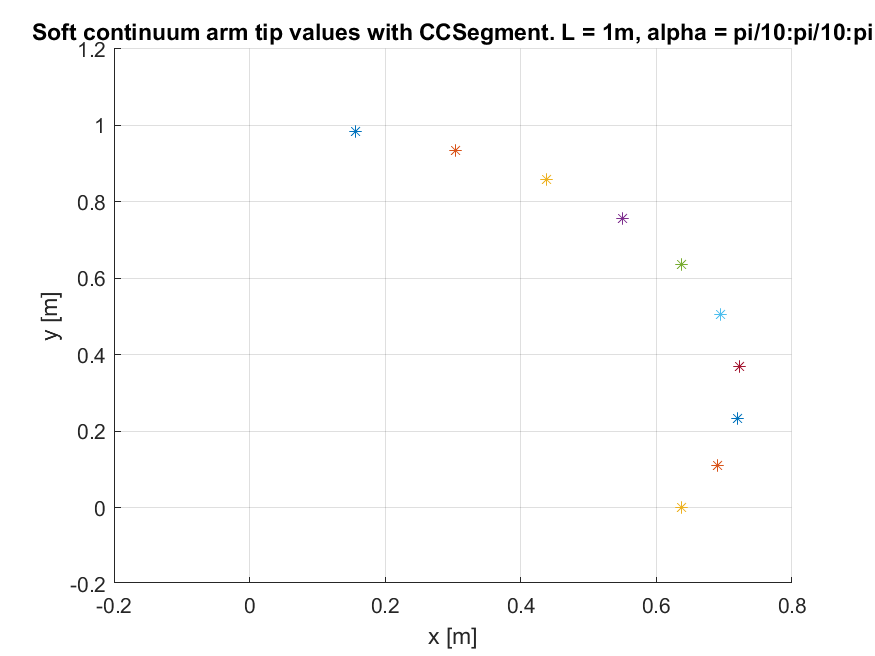
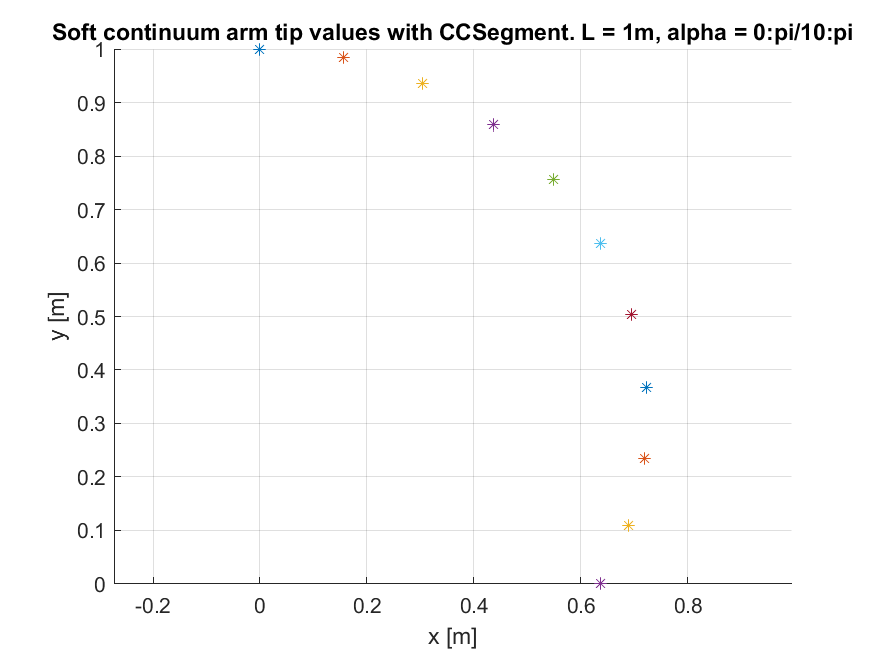
ward kinematics with sma lengths

diff --git a/Codes/Constant_curvature_plots.m b/Codes/Constant_curvature_plots.m
@@ -6,7 +6,7 @@ clc
 length = 1; % 1m
 figure; hold on
 
-for alpha = pi/10:pi/10:pi
+for alpha = 0:pi/10:pi
     temp_points = [];
     for s = 0:0.002:1
         T_1 = homogeneousTransformMatrix(s, alpha, length);
@@ -19,14 +19,15 @@ end
 
 % Plot parameters
 grid on
-xmax = 0.8; xmin = -0.2; ymax = 1.2; ymin = -0.2;
-xlim([xmin xmax])
-ylim([ymin ymax])
-set(gca, 'xtick', xmin:0.2:xmax)
-set(gca, 'ytick', ymin:0.2:ymax)
+% xmax = 1.2; xmin = -0.2; ymax = 1.2; ymin = -0.2;
+% xlim([xmin xmax])
+% ylim([ymin ymax])
+% set(gca, 'xtick', xmin:0.2:xmax)
+% set(gca, 'ytick', ymin:0.2:ymax)
+axis equal
 xlabel("x [m]")
 ylabel("y [m]")
-title("Soft continuum arm with constant curvature. L = 1m, alpha = pi/10:pi/10:pi")
+title("Soft continuum arm with constant curvature. L = 1m, alpha = 0:pi/10:pi")
 hold off
 
 % Save plot
@@ -40,7 +41,7 @@ filename = '../Images/CCmodel.gif';
 axis tight manual
 grid on
 
-for alpha = pi/10:pi/10:pi
+for alpha = 0:pi/10:pi
     temp_points = [];
     for s = 0:0.002:1
         T_1 = homogeneousTransformMatrix(s, alpha, length);
@@ -53,12 +54,13 @@ for alpha = pi/10:pi/10:pi
     plot(temp_points(:, 1), temp_points(:, 2), '.');
     xlabel("x [m]")
     ylabel("y [m]")
-    title("Soft continuum arm with constant curvature. L = 1m, alpha = pi/10:pi/10:pi")
-    xmax = 0.8; xmin = -0.2; ymax = 1.2; ymin = -0.2;
-    xlim([xmin xmax])
-    ylim([ymin ymax])
-    set(gca, 'xtick', xmin:0.2:xmax)
-    set(gca, 'ytick', ymin:0.2:ymax)
+    title("Soft continuum arm with constant curvature. L = 1m, alpha = 0:pi/10:pi")
+%     xmax = 1.2; xmin = -0.2; ymax = 1.2; ymin = -0.2;
+%     xlim([xmin xmax])
+%     ylim([ymin ymax])
+%     set(gca, 'xtick', xmin:0.2:xmax)
+%     set(gca, 'ytick', ymin:0.2:ymax)
+    axis equal
     grid on
     drawnow
     
@@ -79,7 +81,7 @@ end
 length = 1; % 1m
 figure; hold on
 
-for alpha = pi/10:pi/10:pi
+for alpha = 0:pi/10:pi
     T_3 = CCSegment(alpha, length);
     px = T_3(1, 4);
     py = T_3(2, 4);
@@ -88,14 +90,15 @@ end
 
 % Plot parameters
 grid on
-xmax = 0.8; xmin = -0.2; ymax = 1.2; ymin = -0.2;
-xlim([xmin xmax])
-ylim([ymin ymax])
-set(gca, 'xtick', xmin:0.2:xmax)
-set(gca, 'ytick', ymin:0.2:ymax)
+% xmax = 1.2; xmin = -0.2; ymax = 1.2; ymin = -0.2;
+% xlim([xmin xmax])
+% ylim([ymin ymax])
+% set(gca, 'xtick', xmin:0.2:xmax)
+% set(gca, 'ytick', ymin:0.2:ymax)
+axis equal
 xlabel("x [m]")
 ylabel("y [m]")
-title("Soft continuum arm tip values with CCSegment. L = 1m, alpha = pi/10:pi/10:pi")
+title("Soft continuum arm tip values with CCSegment. L = 1m, alpha = 0:pi/10:pi")
 hold off
 
 % Save plot
@@ -103,10 +106,10 @@ saveas(gcf, '../Images/CCSegmentTest.png')
 
 %% Plot tip values using PCCSection
 length = 1; % 1m
-num_segments = 2;
+num_segments = 4;
 figure; hold on
 
-for alpha = pi/10:pi/10:pi
+for alpha = 0:pi/10:pi
     T_4 = PCCSection(alpha, length, num_segments);
     px = T_4(1, 4);
     py = T_4(2, 4);
@@ -115,14 +118,15 @@ end
 
 % Plot parameters
 grid on
-xmax = 0.8; xmin = -0.2; ymax = 1.2; ymin = -0.2;
-xlim([xmin xmax])
-ylim([ymin ymax])
-set(gca, 'xtick', xmin:0.2:xmax)
-set(gca, 'ytick', ymin:0.2:ymax)
+% xmax = 1.2; xmin = -0.2; ymax = 1.2; ymin = -0.2;
+% xlim([xmin xmax])
+% ylim([ymin ymax])
+% set(gca, 'xtick', xmin:0.2:xmax)
+% set(gca, 'ytick', ymin:0.2:ymax)
+axis equal
 xlabel("x [m]")
 ylabel("y [m]")
-title("Soft continuum arm tip values with PCCSection. L = 1m, alpha = pi/10:pi/10:pi")
+title("Soft continuum arm tip values with PCCSection. L = 1m, alpha = 0:pi/10:pi")
 hold off
 
 % Save plot

diff --git a/Codes/CCSegment.m b/Codes/CCSegment.m
@@ -1,8 +1,27 @@
-function T = CCSegment(segment_angle, segment_length)
+% Constant curvature for one segment. beta is the segment angle and l is
+% the segment length.
 
-T = [  cos(segment_angle),  sin(segment_angle),   0,   segment_length * ((1 - cos(segment_angle))/segment_angle); ...
-      -sin(segment_angle),  cos(segment_angle),   0,   segment_length * (sin(segment_angle)/segment_angle)      ; ...
-       0,                   0,                    1,   0                                ; ...
-       0,                   0,                    0,   1                                ];
+function T = CCSegment(beta, l)
 
+if beta == 0  % singularity
+    T = [1, 0, 0, 0; ...
+         0, 1, 0, l; ...
+         0, 0, 1, 0; ...
+         0, 0, 0, 1];
+else
+    T = [  cos(beta),  sin(beta),   0,   l * ((1 - cos(beta))/beta); ...
+          -sin(beta),  cos(beta),   0,   l * (sin(beta)/beta)      ; ...
+           0,          0,           1,   0                         ; ...
+           0,          0,           0,   1                         ];
+end
+
+% % Taylor's series expansions O(x^10) for sin and cos to remove singularities
+% px = l*((beta/2)+(beta^3/24)-(beta^5/720)+(beta^7/40320)-(beta^9/3628800));
+% py = l*(1-(beta^2/6)+(beta^4/120)-(beta^6/5040)+(beta^8/362880));
+% 
+% T = [  cos(beta),  sin(beta),   0,    px; ...
+%       -sin(beta),  cos(beta),   0,    py; ...
+%        0,          0,           1,    0; ...
+%        0,          0,           0,    1];
+    
 end

diff --git a/Codes/homogeneousTransformMatrix.m b/Codes/homogeneousTransformMatrix.m
@@ -6,9 +6,16 @@ function T = homogeneousTransformMatrix(s, alpha, length)
 
 theta = s * alpha;
 
-T = [  cos(theta),  sin(theta),   0,   length * ((1 - cos(theta))/alpha); ...
-      -sin(theta),  cos(theta),   0,   length * (sin(theta)/alpha)      ; ...
-       0,           0,            1,   0                                ; ...
-       0,           0,            0,   1                                ];
+if alpha == 0
+    T = [1, 0, 0, 0; ...
+         0, 1, 0, s * length; ...
+         0, 0, 1, 0; ...
+         0, 0, 0, 1];
+else
+    T = [  cos(theta),  sin(theta),   0,   length * ((1 - cos(theta))/alpha); ...
+          -sin(theta),  cos(theta),   0,   length * (sin(theta)/alpha)      ; ...
+           0,           0,            1,   0                                ; ...
+           0,           0,            0,   1                                ];
+end
 
 end

diff --git a/Codes/FKineSMA.m b/Codes/FKineSMA.m
@@ -1,0 +1,15 @@
+% Calculates Direct kinematics for the SMA continuum module given SMA
+% lengths in the format [[l11, l12]; [l21, l22]; ...], d which is the
+% attachment distance of the SMA wires from the neutral fibre and segment
+% lengths which are the neutral fibre lengths per section. 
+% Output is the transformation matrix from the base to the tip of the SMA
+% continuum module
+function T = FKineSMA(sma_lengths, d, segment_lengths)
+num_segments = length(segment_lengths);
+T = eye(4);
+for i = 1:num_segments
+    beta = (sma_lengths(i, 2) - sma_lengths(i, 1))/(2*d);
+    T_temp = CCSegment(beta, segment_lengths(i));
+    T = T*T_temp;
+end
+end
